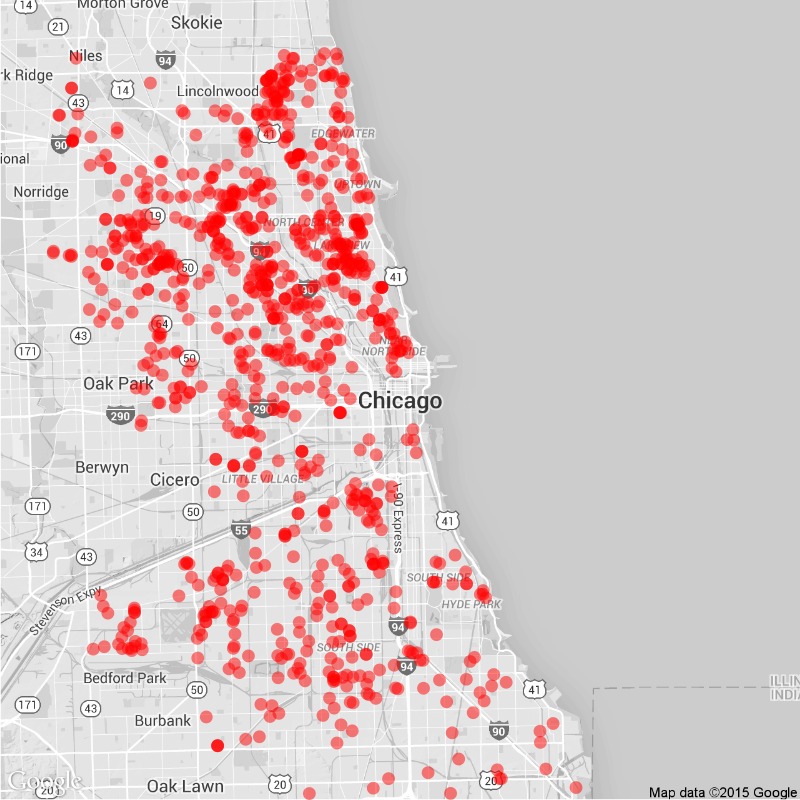
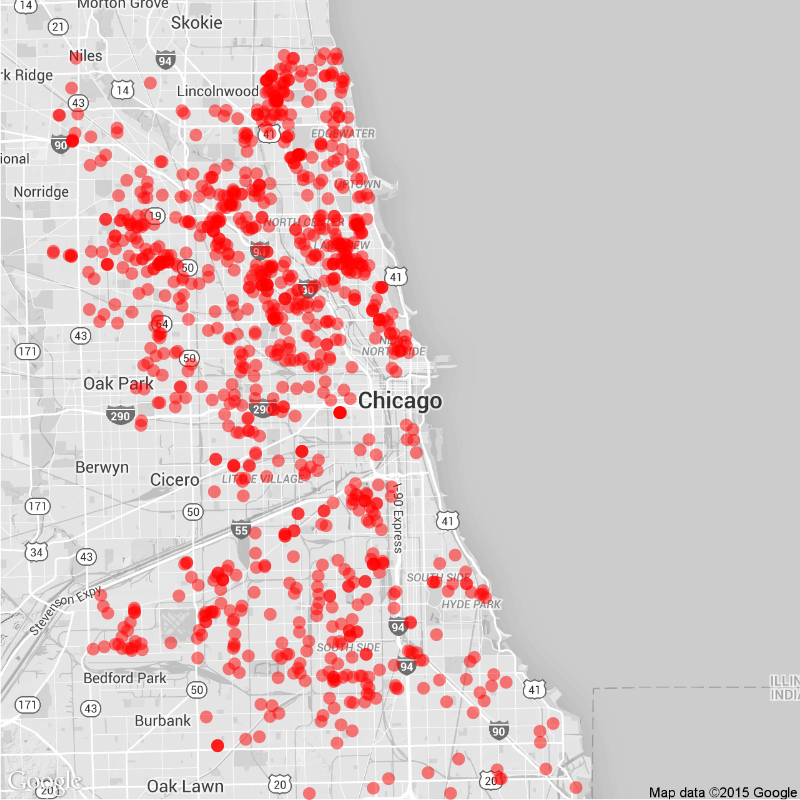
Daily Maps

diff --git a/daily.md b/daily.md
@@ -15,22 +15,22 @@ tags: Chicago NYC weekly daily rats
 
 ### Daily
 
-Yesterday (August 21), there were 161 calls to Chicago's 311 line about rats.
+Yesterday (August 22), there were 74 calls to Chicago's 311 line about rats.
 ![Chicago rat calls to 311 weekly map]({{ site.cityimages }}/daily/Chicago_Rat_Map_Daily.png)
 
 ### Weekly
-Between August 15 and August 21, there were 982 calls to Chicago's 311 line about rats. The average number of weekly calls for this time of year is 903.
+Between August 16 and August 22, there were 1012 calls to Chicago's 311 line about rats. The average number of weekly calls for this time of year is 903.
 ![Chicago rat calls to 311 weekly map]({{ site.cityimages }}/daily/Chicago_Rat_Map_Weekly.png)
 ***
 # New York City <a id="nyc"><a>
 
 ### Daily
 
-Yesterday (August 21), there were 0 calls to New York City's 311 line about rats.
+Yesterday (August 22), there were 0 calls to New York City's 311 line about rats.
 ![NYC rat calls to 311 weekly map]({{ site.cityimages }}/daily/NYC_Rat_Map_Daily.png)
 
 ### Weekly
-Between August 15 and August 21, there were 0 calls to New York City's 311 line about rats. The average number of weekly calls for this time of year is 271.
+Between August 16 and August 22, there were 0 calls to New York City's 311 line about rats. The average number of weekly calls for this time of year is 271.
 ![NYC rat calls to 311 weekly map]({{ site.cityimages }}/daily/NYC_Rat_Map_Weekly.png)
 
 Each red dot represents one call about a rat seen in that location. The dots are transparent, so multiple calls from one location will be seen as a solid dot. The usual caveats apply: more calls do not necessarily mean that there are more rats in that location than other parts of the city. A cluster of dots could indicate that one resident is unusually vocal about rodents in his or her neighborhood. Also, more densely populated neighborhoods tend to make more calls to 311.
